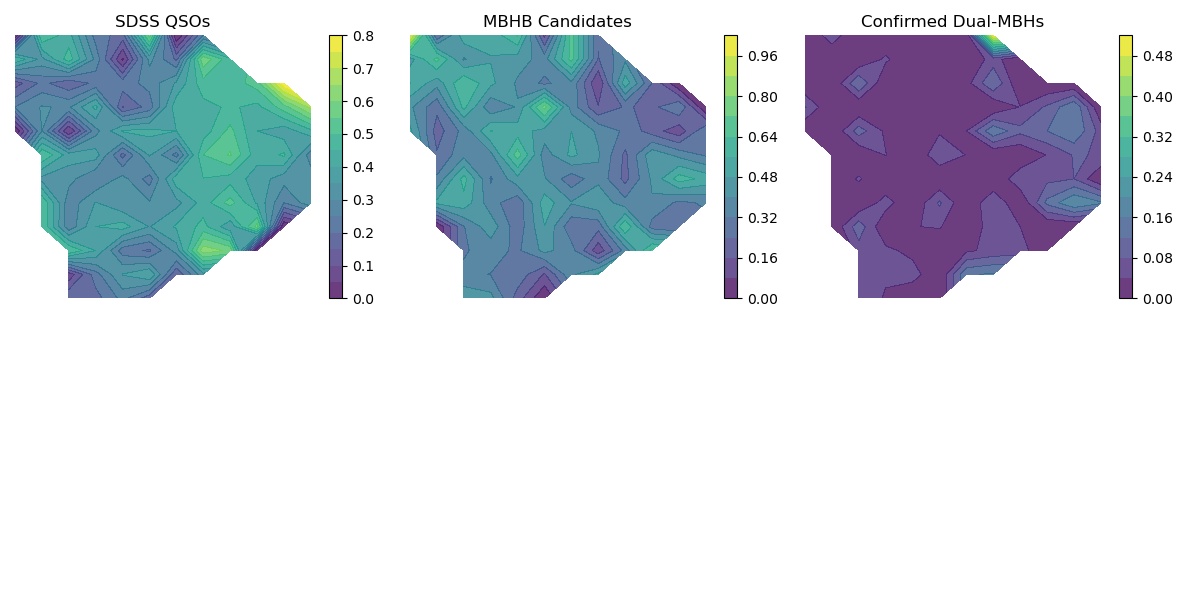
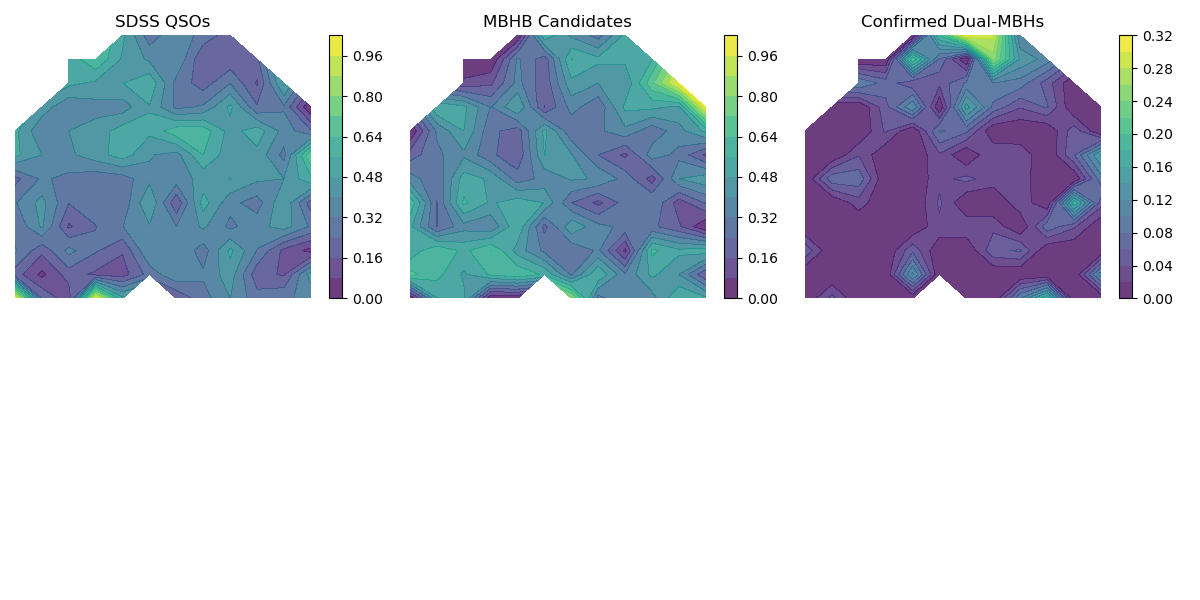
plot

diff --git a/.virtual_documents/light_curves/ML_AGNzoo.md b/.virtual_documents/light_curves/ML_AGNzoo.md
@@ -1,21 +1,6 @@
----
-jupytext:
-  text_representation:
-    extension: .md
-    format_name: myst
-    format_version: 0.13
-    jupytext_version: 1.16.7
-kernelspec:
-  display_name: Python 3 (ipykernel)
-  language: python
-  name: python3
----
 
-# How do AGNs selected with different techniques compare?
 
-We use manifold learning and dimensionality reduction to learn the distribution of AGN lightcurves observed with different facilities. We mostly focus on UMAP ([Uniform Manifold Approximation and Projection, McInnes 2020](https://arxiv.org/pdf/1802.03426.pdf)). The reduced 2D projections from the unsupervised ML techniques reveal similarities and overlaps of different selection techniques and coloring the projections with various statistical physical properties (e.g., mean brightness, fractional lightcurve variation) is informative of correlations of the selections technique with physics such as AGN variability. Using different parts of the EM in training (or in building the initial higher dimensional manifold) demonstrates how much information if any is in that part of the data for each labeling scheme, for example whether with ZTF optical light curves alone, we can identify sources with variability in WISE near IR bands. These techniques also have a potential for identifying targets of a specific class or characteristic for future follow up observations.
 
-```{code-cell} ipython3
 #!pip install -r requirements.txt
 import sys
 import os
@@ -64,26 +49,23 @@ warnings.filterwarnings('ignore')
 
 color4 = ['#3182bd','#6baed6','#9ecae1','#e6550d','#fd8d3c','#fdd0a2','#31a354','#a1d99b', '#c7e9c0', '#756bb1', '#bcbddc', '#dadaeb', '#969696', '#bdbdbd','#d9d9d9','b','r','g']
 custom_cmap = LinearSegmentedColormap.from_list("custom_theme", color4[1:])
-```
 
-```{code-cell} ipython3
+
 samp = pd.read_csv('data/AGNsample_March7.csv')
 
 df_lc = pd.read_parquet('data/Dave_df_march7.parquet')
 objids = df_lc.index.get_level_values('objectid')[:].unique()
 redshifts = samp['redshift']#[objids]
 df_lc
-```
 
-```{code-cell} ipython3
+
 unique_labels = df_lc.index.get_level_values('label').unique()
 print("Unique labels:", unique_labels)
 
 for u in unique_labels:
     print(translate_bitwise_sum_to_labels(u))
-```
 
-```{code-cell} ipython3
+
 from plot_functions import create_figure
 grouped = list(df_lc.groupby('objectid'))
 
@@ -95,9 +77,8 @@ for ind in range(2118,2119):
                        index = ind,  
                        save_output = False,  # should the resulting plots be saved?
                       )
-```
 
-```{code-cell} ipython3
+
 x_ztf = np.linspace(0, 1850, 175)  # For ZTF
 kernel = RationalQuadratic(length_scale=1, alpha=0.1)
 colors = ['#3182bd','#6baed6','#9ecae1','#e6550d','#fd8d3c','#fdd0a2','#31a354','#a1d99b', '#c7e9c0', '#756bb1', '#bcbddc', '#dadaeb', '#969696', '#bdbdbd','#d9d9d9']
@@ -225,11 +206,11 @@ plt.ylabel(r'$\rm Flux(mJy)$',size=15)
 plt.legend(loc=1)
 plt.tight_layout()
 #plt.savefig('output/unify_lc1619.png')
-```
 
-# ZTF bands only
 
-```{code-cell} ipython3
+
+
+
 bands_inlc = ['zg','zr','zi']
 numobjs = len(df_lc.index.get_level_values('objectid')[:].unique())
 sample_objids = df_lc.index.get_level_values('objectid').unique()[:numobjs]
@@ -251,11 +232,10 @@ for index, f in enumerate(fzr):
         if label not in labc:
             labc[label] = []  # Initialize the list for this label if it's not already in labc
         labc[label].append(index)  # Append the current index to the list of indices for this label
-```
 
-```{code-cell} ipython3
-mapper = umap.UMAP(n_neighbors=50,min_dist=0.99,metric=dtw_distance,random_state=2).fit(data)
-#mapper = umap.UMAP(n_neighbors=100,min_dist=0.99,metric='manhattan',random_state=3).fit(data)
+
+#mapper = umap.UMAP(n_neighbors=5,min_dist=0.99,metric=dtw_distance,random_state=2).fit(data)
+mapper = umap.UMAP(n_neighbors=100,min_dist=0.99,metric='manhattan',random_state=3).fit(data)
 
 plt.figure(figsize=(12,4))
 markersize=100
@@ -284,10 +264,9 @@ plt.colorbar(cf,cax=cax)
 
 
 plt.tight_layout()
-#plt.savefig('output/new_ztf.png')
-```
+#plt.savefig('output/umap-w1-sampleA-1.png')
 
-```{code-cell} ipython3
+
 # Initialize plot grid
 fig, axes = plt.subplots(3, 4, figsize=(15, 9))  # 3 rows, 5 columns
 axes = axes.flatten()  # Convert to a list for easier indexing
@@ -330,11 +309,11 @@ for i, label in enumerate(laborder):
 # Adjust layout
 plt.tight_layout()
 plt.savefig('newway_ZTF.png')
-```
 
-# Wise only
 
-```{code-cell} ipython3
+
+
+
 bands_inlc = ['W1']
 numobjs = len(df_lc.index.get_level_values('objectid')[:].unique())
 sample_objids = df_lc.index.get_level_values('objectid').unique()[:numobjs]
@@ -362,9 +341,8 @@ for index, f in enumerate(fzr):
         if label not in labc:
             labc[label] = []  # Initialize the list for this label if it's not already in labc
         labc[label].append(index)  # Append the current index to the list of indices for this label
-```
 
-```{code-cell} ipython3
+
 mapper = umap.UMAP(n_neighbors=100,min_dist=0.99,metric=dtw_distance,random_state=7).fit(data)
 #mapper = umap.UMAP(n_neighbors=7,min_dist=0.999,metric='manhattan',random_state=5).fit(data)
 
@@ -396,9 +374,8 @@ plt.colorbar(cf,cax=cax)
 
 plt.tight_layout()
 #plt.savefig('output/umap-w1-sampleA-1.png')
-```
 
-```{code-cell} ipython3
+
 import numpy as np
 import matplotlib.pyplot as plt
 from mpl_toolkits.axes_grid1 import make_axes_locatable
@@ -445,9 +422,8 @@ for i, label in enumerate(laborder):
 # Adjust layout
 plt.tight_layout()
 plt.savefig('newway_wise.png')
-```
 
-```{code-cell} ipython3
+
 # Calculate 2D histogram
 hist, x_edges, y_edges = np.histogram2d(mapper.embedding_[:, 0], mapper.embedding_[:, 1], bins=15)
 plt.figure(figsize=(18,8))
@@ -480,9 +456,8 @@ plt.axis('off')
 
 plt.tight_layout()
 #plt.savefig('output/umap-w1-sampleA-2.png')
-```
 
-```{code-cell} ipython3
+
 # Assuming 'mapper.embedding_' is your data and 'labc' is your dictionary of labels to indices
 hist, x_edges, y_edges = np.histogram2d(mapper.embedding_[:, 0], mapper.embedding_[:, 1], bins=12)
 plt.figure(figsize=(12, 6))
@@ -515,11 +490,11 @@ for group_name, labels in group_labels.items():
 
 plt.tight_layout()
 plt.savefig('WISE1_dual.png')
-```
 
-# ZTF+ WISE Manifold
 
-```{code-cell} ipython3
+
+
+
 bands_inlc = ['zg','zr','zi','W1','W2']
 numobjs = len(df_lc.index.get_level_values('objectid')[:].unique())
 sample_objids = df_lc.index.get_level_values('objectid').unique()[:numobjs]
@@ -547,11 +522,10 @@ for index, f in enumerate(fzr):
         if label not in labc:
             labc[label] = []  # Initialize the list for this label if it's not already in labc
         labc[label].append(index)  # Append the current index to the list of indices for this label
-```
 
-```{code-cell} ipython3
-mapper = umap.UMAP(n_neighbors=50,min_dist=0.99,metric=dtw_distance,random_state=10).fit(data)
-#mapper = umap.UMAP(n_neighbors=7,min_dist=0.99,metric='manhattan',random_state=5).fit(data)
+
+#mapper = umap.UMAP(n_neighbors=5,min_dist=0.99,metric=dtw_distance,random_state=10).fit(data)
+mapper = umap.UMAP(n_neighbors=7,min_dist=0.99,metric='manhattan',random_state=5).fit(data)
 
 plt.figure(figsize=(12,4))
 markersize=100
@@ -590,9 +564,8 @@ cax = divider.append_axes("right", size="5%", pad=0.05)
 plt.colorbar(cf,cax=cax)
 
 plt.tight_layout()
-```
 
-```{code-cell} ipython3
+
 import numpy as np
 import matplotlib.pyplot as plt
 from mpl_toolkits.axes_grid1 import make_axes_locatable
@@ -639,14 +612,14 @@ for i, label in enumerate(laborder):
 # Adjust layout
 plt.tight_layout()
 plt.savefig('newway_ztfwise.png')
-```
 
-```{code-cell} ipython3
+
 # Calculate 2D histogram
 hist, x_edges, y_edges = np.histogram2d(mapper.embedding_[:, 0], mapper.embedding_[:, 1], bins=15)
 plt.figure(figsize=(18,8))
 i=1
 #laborder = ['SDSS_QSO','WISE_Variable','Optical_Variable','Galex_Variable','SPIDER_AGN','SPIDER_AGNBL','SPIDER_QSOBL','SPIDER_BL','Turn-on','Turn-off','TDE','Fermi_Blazars']
+laborder = ['SDSS_QSO','WISE_Variable','Optical_Variable','Charisi16','Chen20','Graham15','Liu19','Ward22_wise','Ward22_ztf','bigMAC','Rodriguez06']
 laborder = ['SDSS_QSO','WISE_Variable','Optical_Variable','bigMAC_dual','Rodriguez06','bigMAC_binary','Graham15','Ward22_wise','Ward22_ztf','Charisi16','Chen20','Liu19','PG1302','OJ287']
 
 for label in laborder:
@@ -673,9 +646,8 @@ plt.axis('off')
 
 plt.tight_layout()
 #plt.savefig('output/umap-w1-sampleA-2.png')
-```
 
-```{code-cell} ipython3
+
 # Assuming 'mapper.embedding_' is your data and 'labc' is your dictionary of labels to indices
 hist, x_edges, y_edges = np.histogram2d(mapper.embedding_[:, 0], mapper.embedding_[:, 1], bins=15)
 plt.figure(figsize=(12, 6))
@@ -708,8 +680,6 @@ for group_name, labels in group_labels.items():
 
 plt.tight_layout()
 #plt.savefig('WISE1_dual.png')
-```
 
-```{code-cell} ipython3
 
-```
+
